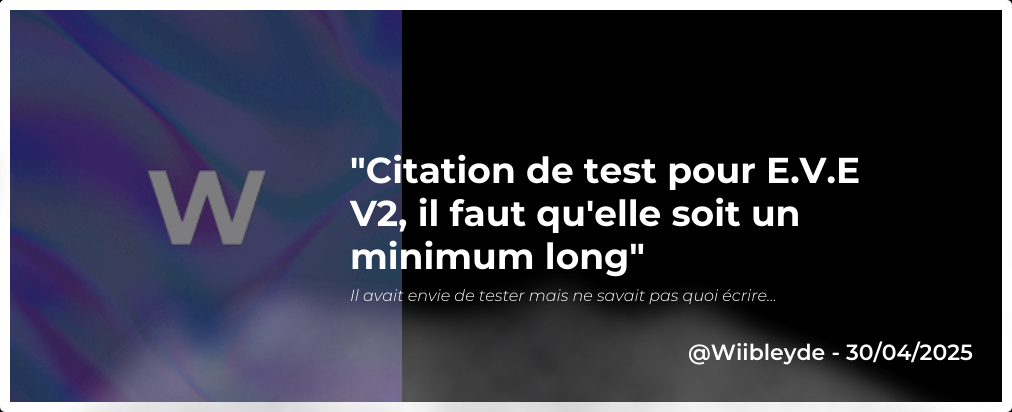
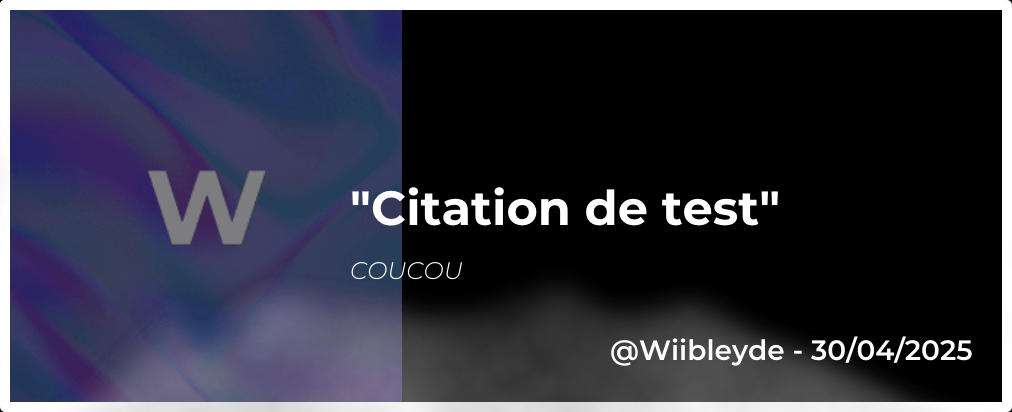
feat: add QuoteHandler for creating and sending quote images with user context

Changed region(s): [[0.337, 0.3786, 0.8577, 0.5534], [0.337, 0.5825, 0.7658, 0.7282], [0.582, 0.8155, 0.9802, 0.9029]]

diff --git a/pkg/quote/CreateQuote.go b/pkg/quote/CreateQuote.go
@@ -11,8 +11,6 @@ import (
 	"main/pkg/logger"
 	"net/http"
 	"os"
-	"regexp"
-	"strconv"
 	"strings"
 	"time"
 
@@ -104,8 +102,8 @@ func CreateQuote(
 		dc.DrawImage(smokeImg, 0, bgHeight-smokeHeight)
 	}
 
-	// Set font for quote with bold font - increased size from 28 to 36
-	quoteFace, err := gg.LoadFontFace(boldFontPath, 36)
+	// Set font for quote with bold font 48
+	quoteFace, err := gg.LoadFontFace(boldFontPath, 48)
 	if err != nil {
 		logger.ErrorLogger.Println("Error loading font face for quote:", err)
 		return "", err
@@ -136,7 +134,7 @@ func CreateQuote(
 
 	// Handle context if provided
 	if context != "" {
-		contextFace, err := gg.LoadFontFace(lightItalicFontPath, 16) // Use italic font for context
+		contextFace, err := gg.LoadFontFace(lightItalicFontPath, 24) // Use italic font for context
 		if err != nil {
 			logger.ErrorLogger.Println("Error loading font face for context:", err)
 			return "", err
@@ -149,7 +147,7 @@ func CreateQuote(
 	}
 
 	// Add author and date
-	authorFace, err := gg.LoadFontFace(semiBoldFontPath, 22) // Use semibold font for author
+	authorFace, err := gg.LoadFontFace(semiBoldFontPath, 28) // Use semibold font for author
 	if err != nil {
 		logger.ErrorLogger.Println("Error loading font face for author:", err)
 		return "", err
@@ -208,49 +206,6 @@ func wrapText(dc *gg.Context, text string, maxWidth float64) string {
 
 	lines = append(lines, line)
 	return strings.Join(lines, "\n")
-}
-
-// fixMessage cleans up various message formats
-func fixMessage(message string) string {
-	// Remove the "" if they are at the beginning and end of the message
-	re := regexp.MustCompile(`^"(.+)"$`)
-	message = re.ReplaceAllString(message, "$1")
-
-	// Replace <@123456789012345678> with @username (simplified since we don't have Discord client)
-	userMention := regexp.MustCompile(`<@!?(\d+)>`)
-	message = userMention.ReplaceAllString(message, "@user")
-
-	// Replace <#123456789012345678> with #channel
-	channelMention := regexp.MustCompile(`<#(\d+)>`)
-	message = channelMention.ReplaceAllString(message, "#channel")
-
-	// Replace <@&123456789012345678> with @role
-	roleMention := regexp.MustCompile(`<@&(\d+)>`)
-	message = roleMention.ReplaceAllString(message, "@role")
-
-	// Replace <a:emoji_name:123456789012345678> with :emoji_name:
-	emoji := regexp.MustCompile(`<a?:(\w+):(\d+)>`)
-	message = emoji.ReplaceAllString(message, ":$1:")
-
-	// Replace <t:1234567890> with the date
-	timestamp := regexp.MustCompile(`<t:(\d+)>`)
-	message = timestamp.ReplaceAllStringFunc(message, func(match string) string {
-		re := regexp.MustCompile(`<t:(\d+)>`)
-		matches := re.FindStringSubmatch(match)
-		if len(matches) > 1 {
-			ts, err := strconv.ParseInt(matches[1], 10, 64)
-			if err != nil {
-				return match
-			}
-			date := time.Unix(ts, 0)
-			return date.Format("02/01/2006")
-		}
-		return match
-	})
-
-	// Additional timestamp formats could be implemented similarly
-
-	return message
 }
 
 // downloadImage downloads an image from the given URL and returns it as an image.Image
@@ -317,26 +272,6 @@ func resizeImage(img image.Image, width, height int) image.Image {
 	dc.DrawImage(img, 0, 0)
 
 	return dc.Image()
-}
-
-// Helper function to apply opacity to an image
-func applyOpacity(img image.Image, opacity float64) image.Image {
-	bounds := img.Bounds()
-	rgba := image.NewRGBA(bounds)
-	for y := bounds.Min.Y; y < bounds.Max.Y; y++ {
-		for x := bounds.Min.X; x < bounds.Max.X; x++ {
-			r, g, b, a := img.At(x, y).RGBA()
-			// Convert from 16-bit to 8-bit and apply opacity
-			alpha := uint8(float64(a>>8) * opacity)
-			rgba.SetRGBA(x, y, color.RGBA{
-				R: uint8(r >> 8),
-				G: uint8(g >> 8),
-				B: uint8(b >> 8),
-				A: alpha,
-			})
-		}
-	}
-	return rgba
 }
 
 // Helper function to darken an image by drawing a transparent black rectangle over it

diff --git a/pkg/commandHandler/quote.go b/pkg/commandHandler/quote.go
@@ -1,0 +1,93 @@
+package commandHandler
+
+import (
+	"errors"
+	"main/pkg/data"
+	"main/pkg/logger"
+	"main/pkg/quote"
+	"main/prisma/db"
+	"os"
+	"time"
+
+	"github.com/bwmarrin/discordgo"
+)
+
+func QuoteHandler(s *discordgo.Session, i *discordgo.InteractionCreate) error {
+	strQuote := i.ApplicationCommandData().Options[0].StringValue()
+	author := i.ApplicationCommandData().Options[1].UserValue(s)
+	context := ""
+	if len(i.ApplicationCommandData().Options) > 2 {
+		context = i.ApplicationCommandData().Options[2].StringValue()
+	}
+
+	// Check if the quote is empty
+	if strQuote == "" {
+		logger.ErrorLogger.Println("Quote is empty")
+		return errors.New("quote cannot be empty")
+	}
+
+	today := time.Now()
+	// FOrmat to DD/MM/YYYY
+	formattedDate := today.Format("02/01/2006")
+
+	// Get user profile picture
+	avatarURL := author.AvatarURL("1024")
+	path, err := quote.CreateQuote(strQuote, author.GlobalName, context, formattedDate, avatarURL)
+	if err != nil {
+		logger.ErrorLogger.Println("Error creating quote:", err)
+		return err
+	}
+
+	// Open the file for reading
+	fileReader, err := os.Open(path)
+	if err != nil {
+		logger.ErrorLogger.Println("Error opening quote image file:", err)
+		return err
+	}
+	defer fileReader.Close()
+
+	client, ctx := data.GetDBClient()
+	quoteChannelConfig, err := client.Config.FindMany(
+		db.Config.And(
+			db.Config.GuildID.Equals(i.GuildID),
+			db.Config.Key.Equals("quoteChannel"),
+		),
+	).Exec(ctx)
+	if err != nil {
+		logger.ErrorLogger.Println("Error retrieving quote channel config:", err)
+		return err
+	}
+
+	messageToSend := "\"" + strQuote + "\" - <@" + author.ID + "> - " + formattedDate
+
+	if context != "" {
+		messageToSend += "\n*" + context + "*"
+	}
+
+	// Create the file for sending
+	file := &discordgo.File{
+		Name:   "quote.png",
+		Reader: fileReader,
+	}
+
+	// Prepare message data with both text and image attachment
+	messageData := &discordgo.MessageSend{
+		Content: messageToSend,
+		Files:   []*discordgo.File{file},
+	}
+
+	// Determine which channel to send the message to
+	channelID := i.ChannelID
+	if len(quoteChannelConfig) > 0 {
+		channelID = quoteChannelConfig[0].Value
+	}
+
+	// Send the message with the image
+	_, err = s.ChannelMessageSendComplex(channelID, messageData)
+	if err != nil {
+		logger.ErrorLogger.Println("Error sending message with quote image:", err)
+		return err
+	}
+
+	return nil
+}

diff --git a/pkg/bot/Commands.go b/pkg/bot/Commands.go
@@ -120,7 +120,11 @@ var (
 							Choices: []*discordgo.ApplicationCommandOptionChoice{
 								{
 									Name:  "Canal d'anniversaire",
-									Value: "birthday_channel",
+									Value: "birthdayChannel",
+								},
+								{
+									Name:  "Canal des citations",
+									Value: "quoteChannel",
 								},
 							},
 						},
@@ -151,7 +155,11 @@ var (
 							Choices: []*discordgo.ApplicationCommandOptionChoice{
 								{
 									Name:  "Canal d'anniversaire",
-									Value: "birthday_channel",
+									Value: "birthdayChannel",
+								},
+								{
+									Name:  "Canal des citations",
+									Value: "quoteChannel",
 								},
 							},
 						},
@@ -180,6 +188,35 @@ var (
 				},
 			},
 		},
+		{
+			Name:        "quote",
+			Description: "Créer une citation",
+			// Type:        discordgo.ChatApplicationCommand,
+			Options: []*discordgo.ApplicationCommandOption{
+				{
+					Name:        "citation",
+					Description: "Citation à créer",
+					Type:        discordgo.ApplicationCommandOptionString,
+					MinLength:   intPtr(1),
+					MaxLength:   256,
+					Required:    true,
+				},
+				{
+					Name:        "auteur",
+					Description: "Auteur de la citation",
+					Type:        discordgo.ApplicationCommandOptionUser,
+					Required:    true,
+				},
+				{
+					Name:        "contexte",
+					Description: "Contexte de la citation",
+					Type:        discordgo.ApplicationCommandOptionString,
+					MinLength:   intPtr(1),
+					MaxLength:   256,
+					Required:    false,
+				},
+			},
+		},
 
 		// Context menu user commands
 		{
@@ -200,6 +237,7 @@ var (
 		"blague":   commandHandler.BlagueHandler,
 		"config":   commandHandler.ConfigHandler,
 		"talk":     commandHandler.TalkHandler,
+		"quote":    commandHandler.QuoteHandler,
 
 		// Context menu user commands
 		"Récupérer la photo de profil": contextMenuHandler.ProfilePictureContextMenuHandler,

diff --git a/pkg/crons/CronFuncs.go b/pkg/crons/CronFuncs.go
@@ -53,7 +53,7 @@ func checkBirthdays(bot *discordgo.Session) {
 		birthdayChannelConfig, err := client.Config.FindMany(
 			db.Config.And(
 				db.Config.GuildID.Equals(guildID),
-				db.Config.Key.Equals("birthday_channel"),
+				db.Config.Key.Equals("birthdayChannel"),
 			),
 		).Exec(ctx)
 

diff --git a/main.go b/main.go
@@ -11,6 +11,7 @@ func main() {
 	bot_utils.InitStartTime()
 	config.InitConfig()
 	logger.InitLogger()
+
 	logger.InfoLogger.Println("Program starting...")
 
 	bot.InitBot()
